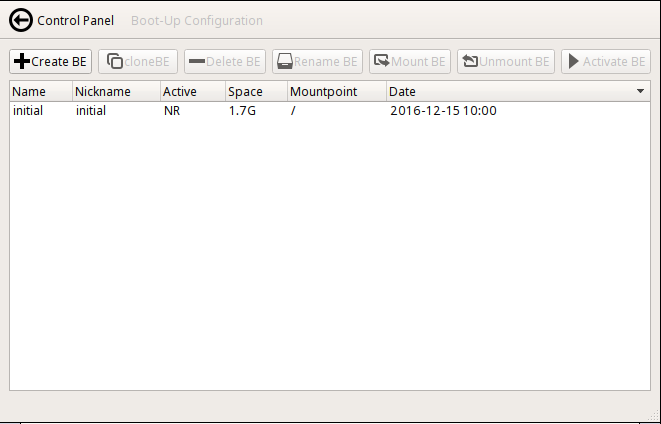
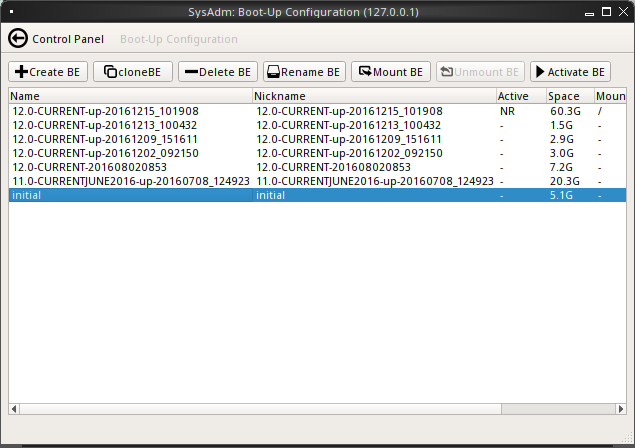
Minor changes to Boot Environment Manager: - Replaced screenshot be1a.png with a more dense image. - Small reworks to the text for flow and clarity.

Changed region(s): [[0.0, 0.0, 1.0, 1.0]]

diff --git a/docs/client_handbook/sysadmclient.rst b/docs/client_handbook/sysadmclient.rst
@@ -665,8 +665,9 @@ which boot environment is selected at system boot.
 To view, manage, and create boot environments using the |sysadm|
 graphical client, go to
 :menuselection:`Local System --> System Management --> Boot Environment Manager`.
-In the example shown in :numref:`Figure %s <be1>`, there is an entry
-named *initial* that represents the original |trueos| installation.
+In the example shown in :numref:`Figure %s <be1>`, there is a
+highlighted entry named *initial* which represents the original |trueos|
+installation.
 
 .. _be1:
 
@@ -674,6 +675,10 @@ named *initial* that represents the original |trueos| installation.
    :scale: 100%
 
    : Managing Boot Environments
+
+.. tip:: An automatically generated boot environment is generally named
+   with a version and date stamp. It is recommended to note the desired
+   date when choosing to activate a different BE.
 
 Each entry contains the same information, displayed here in
 :numref:`Table %s <mbetable1>`:
@@ -695,8 +700,8 @@ Each entry contains the same information, displayed here in
    |            | reboot), *N* (active now), *NR* (active now and on      |
    |            | reboot), or *-* (inactive). In this                     |
    |            | :ref:`example <be1>`, the system booted from            |
-   |            | :guilabel:`initial` and is set to boot from             |
-   |            | :guilabel:`initial` on the next boot.                   |
+   |            | *12.0-CURRENT-up-20161215_101908* and also uses this BE |
+   |            | for the next boot.                                      |
    +------------+---------------------------------------------------------+
    | Space      | The size of the boot environment.                       |
    +------------+---------------------------------------------------------+
@@ -749,16 +754,12 @@ described in :numref:`Table %s <mbetable2>`
 
    : |trueos| Boot Menu
 
-To boot into another boot environment, press :kbd:`7` at the
-:ref:`TrueOS Boot Menu <install1(1)>` to access the boot menu selection
-screen. In the example shown in :numref:`Figure %s <be2>`, two boot
-environments are available in :guilabel:`Boot Environments`: *initial*
-represents the initial installation and *mybootenvironment* was manually
-created using the Boot Environment Manager.
-
-.. tip:: An automatically generated boot environment is generally named
-   with a version and date stamp. It is recommended to note the desired
-   date when choosing to activate a different BE.
+Boot into another boot environment at startup by pressing :kbd:`7` at
+the :ref:`TrueOS Boot Menu <install1(1)>` to access the boot menu
+selection screen. In the example shown in :numref:`Figure %s <be2>`, two
+boot environments are available in :guilabel:`Boot Environments`:
+*initial* represents the initial installation and *mybootenvironment*
+was manually created using the Boot Environment Manager.
 
 .. _be2:
 
